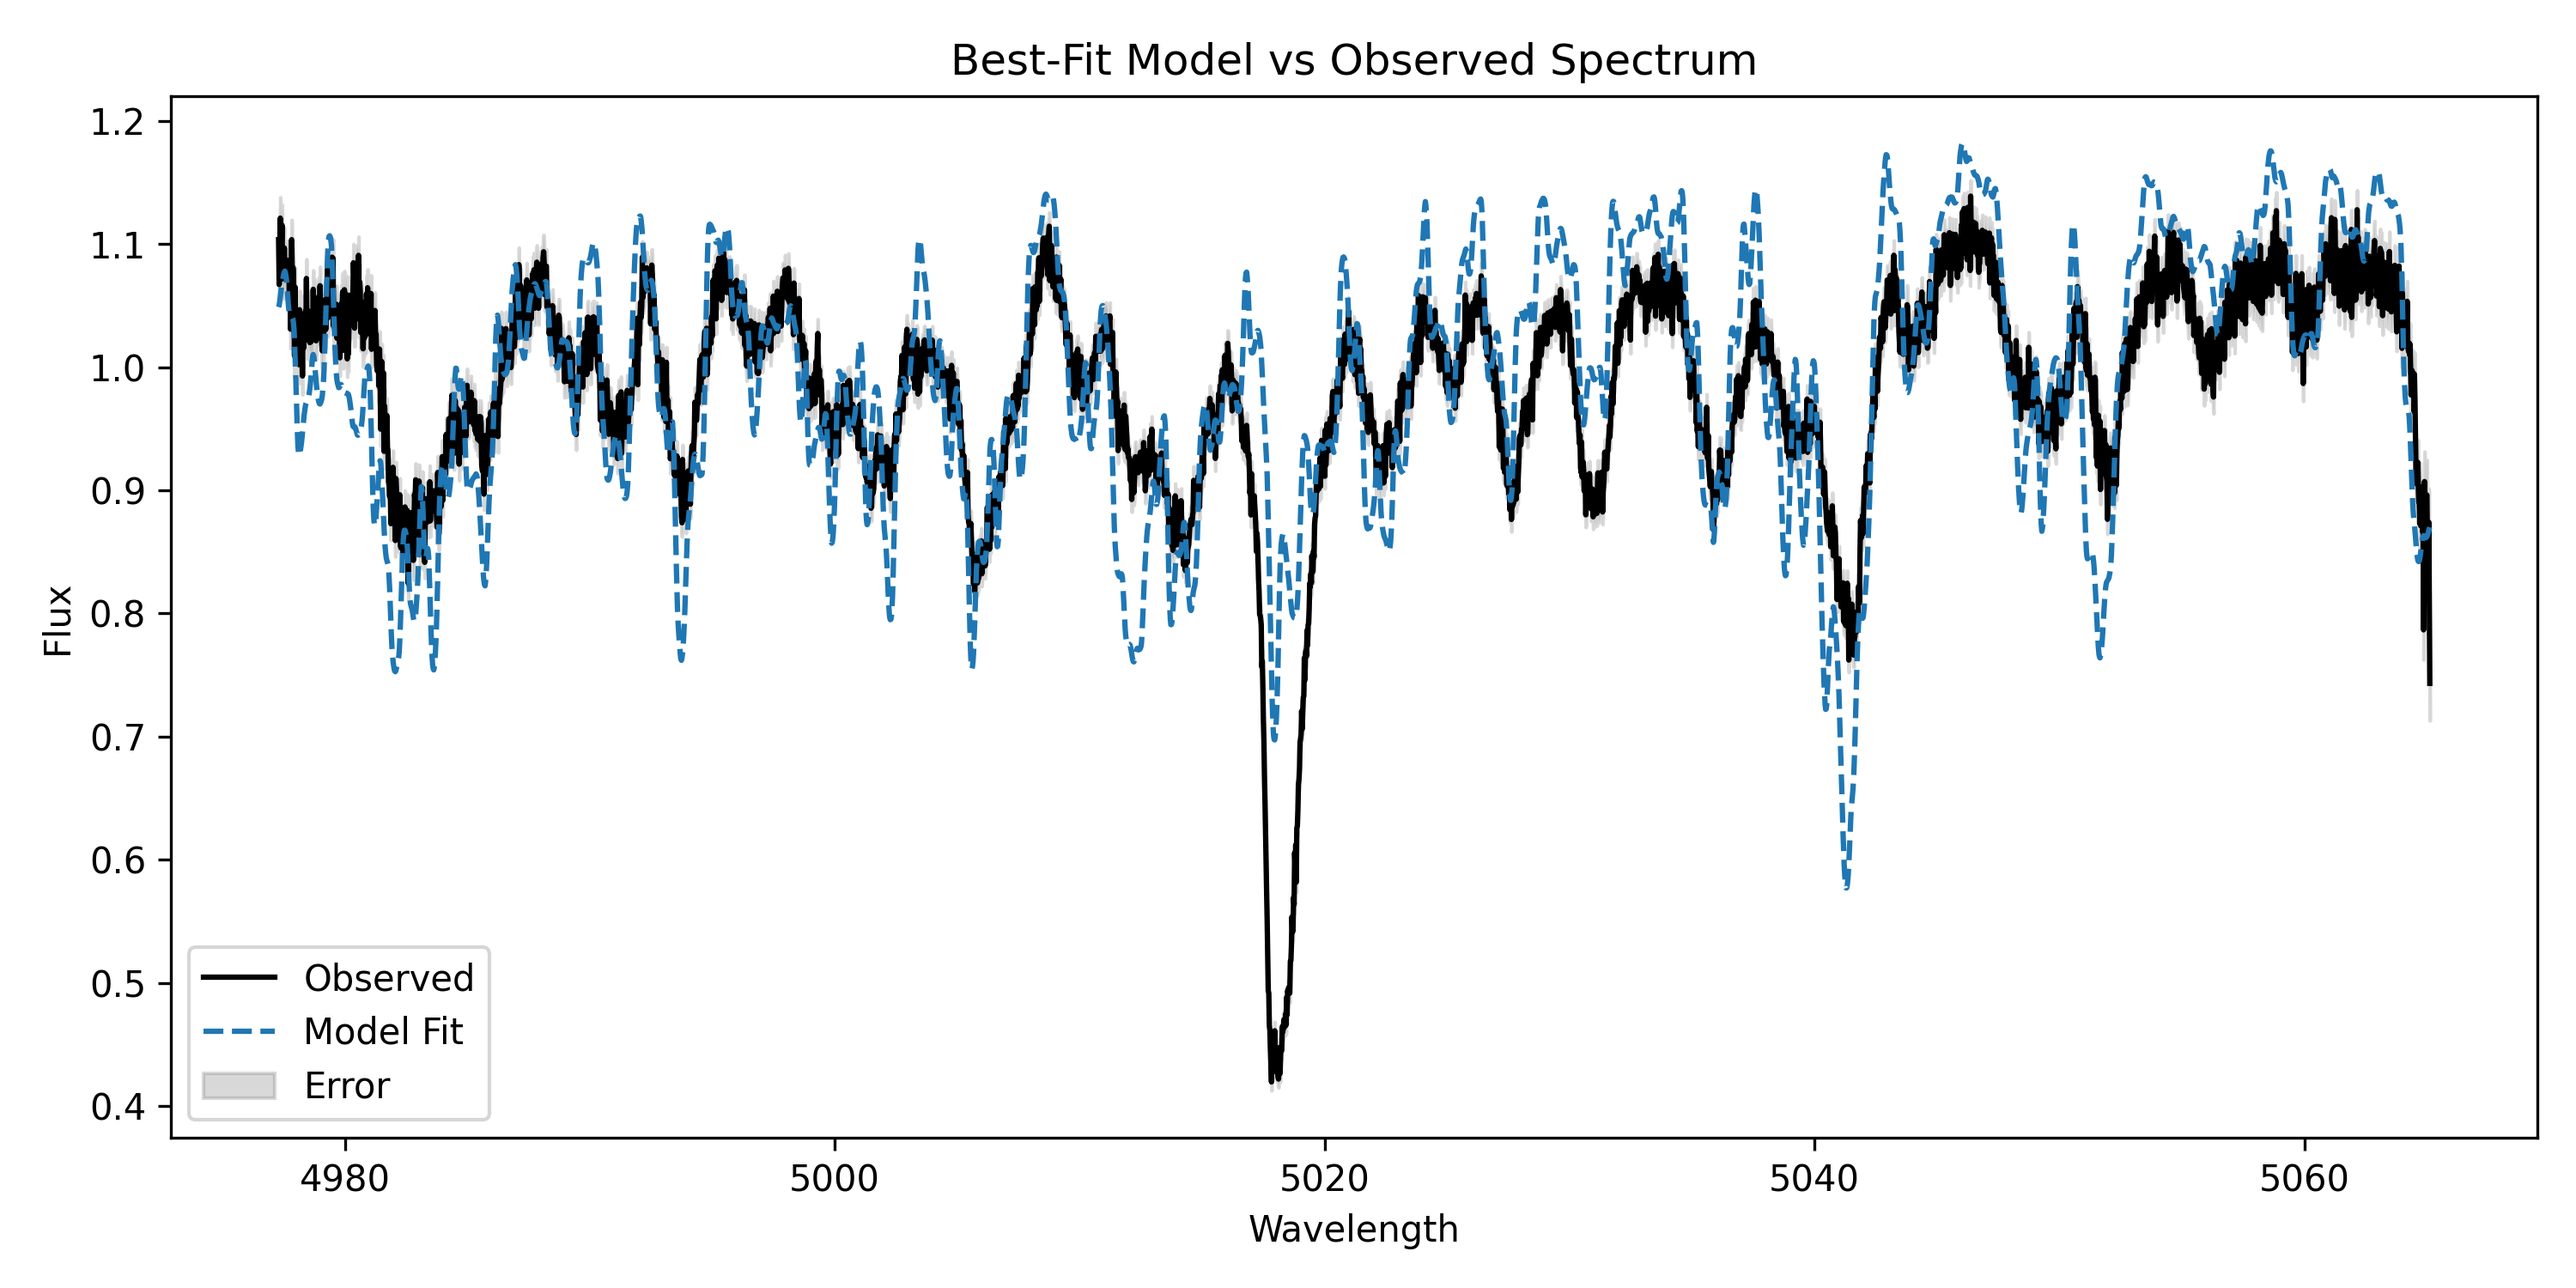
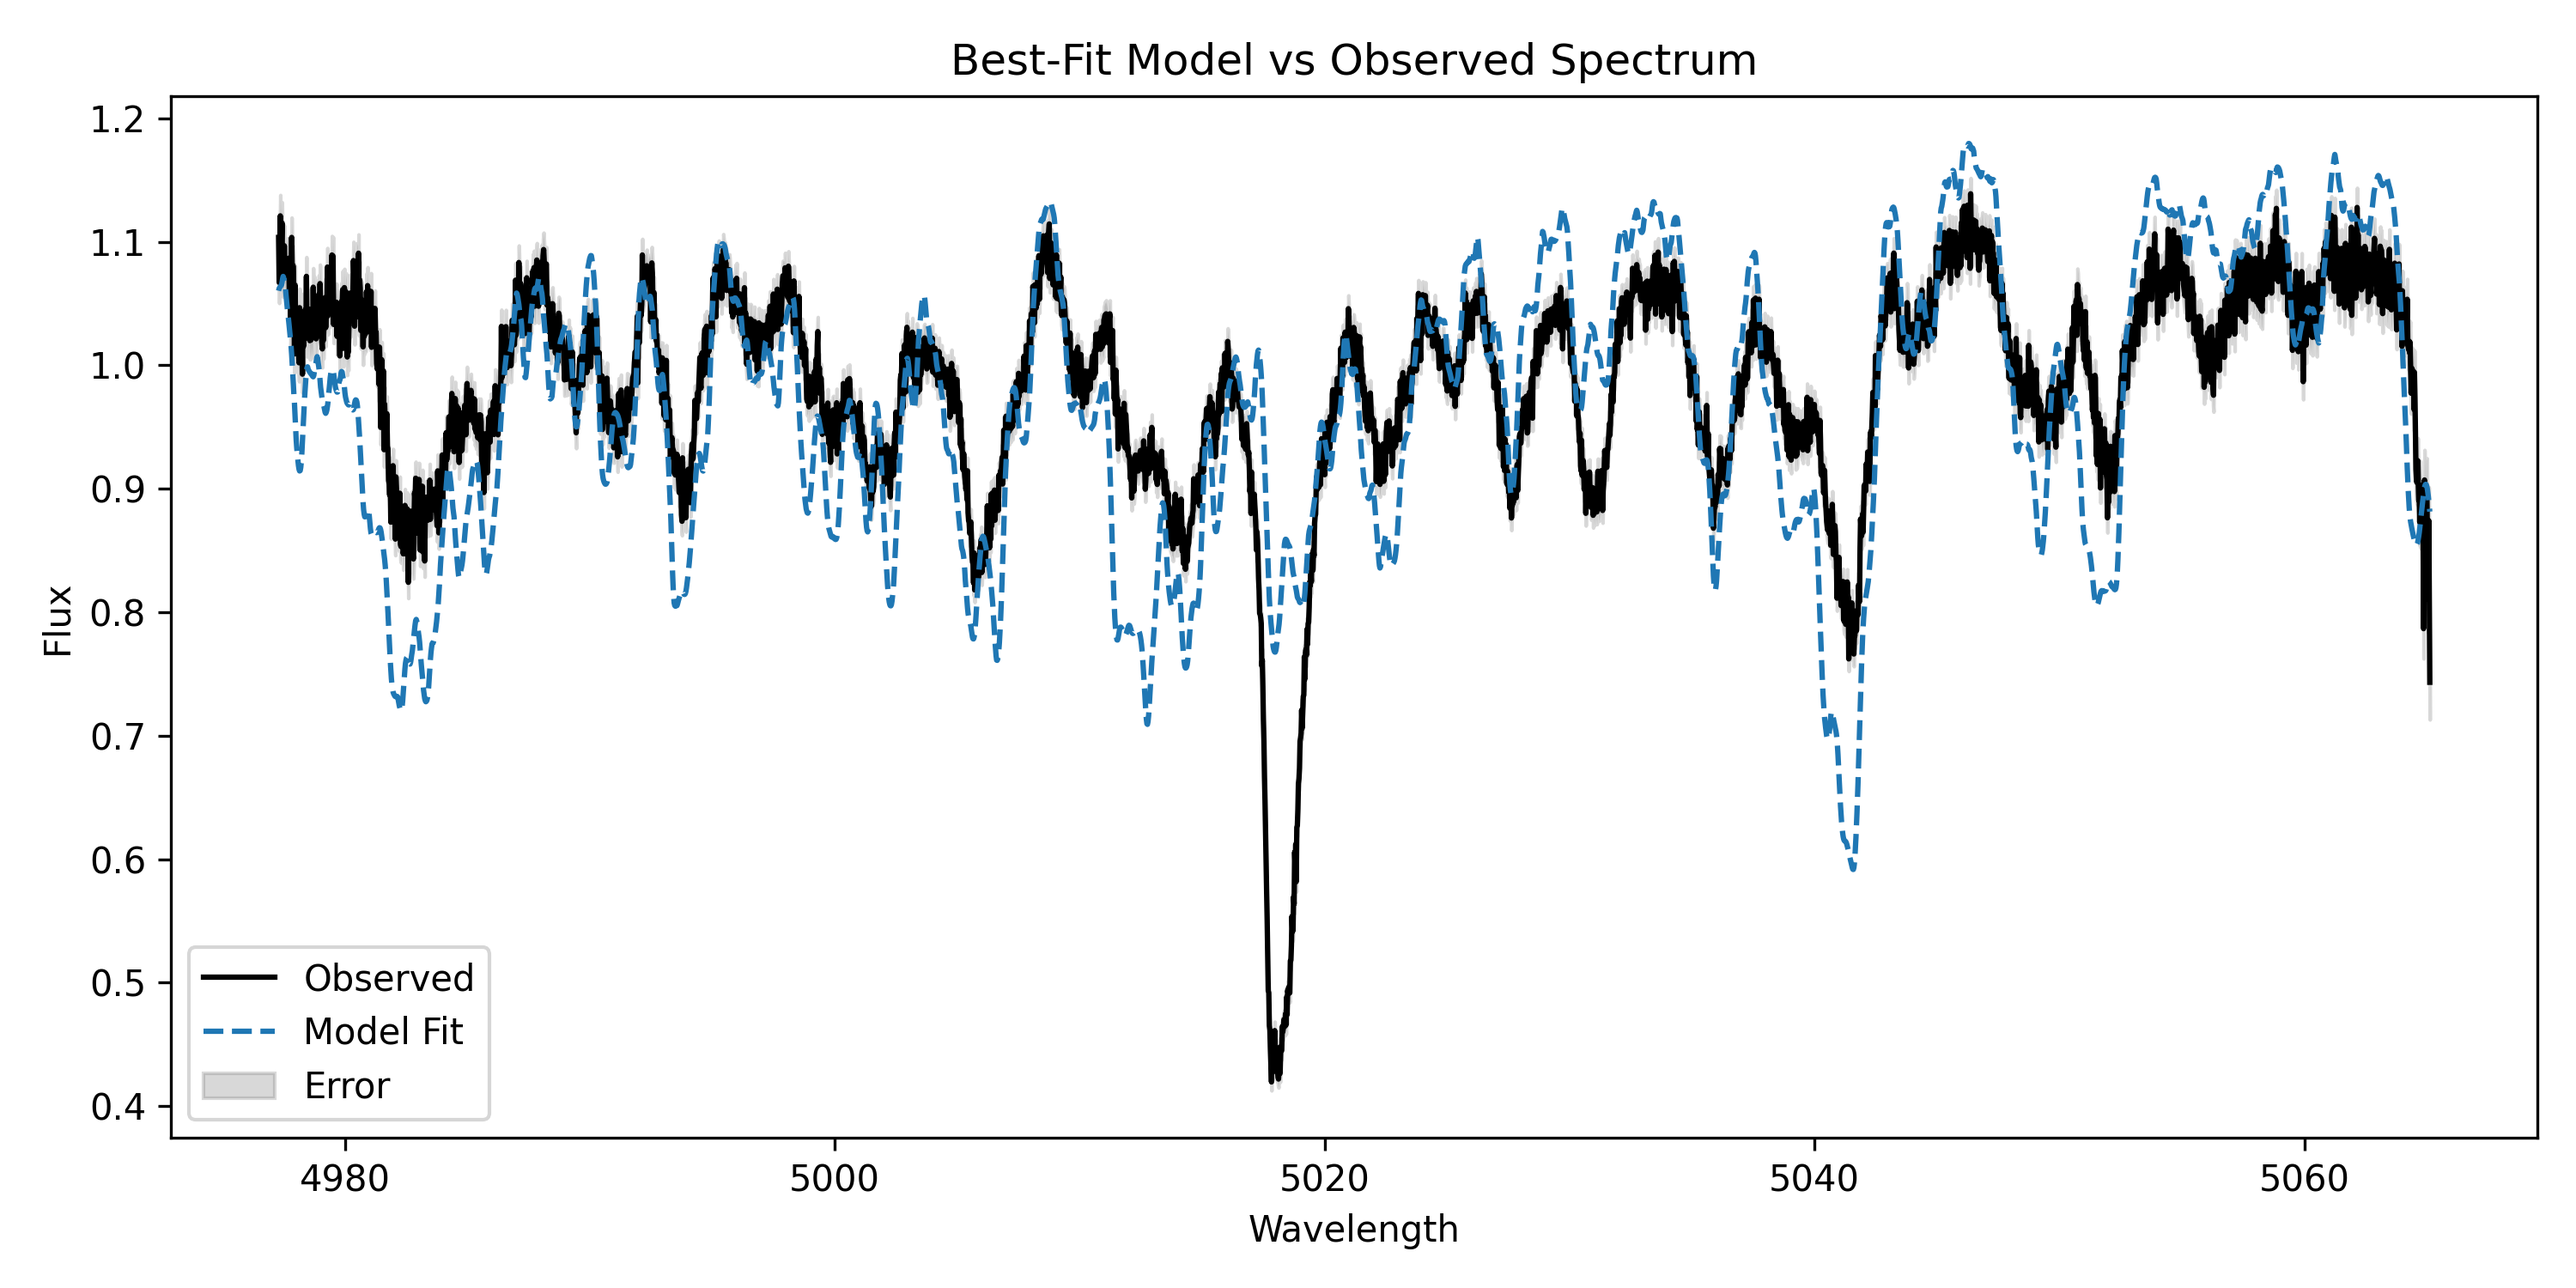
added polynomial continuum fitting

diff --git a/least_sq_fitter.py b/least_sq_fitter.py
@@ -1,8 +1,6 @@
 import numpy as np
-import pandas as pd
 import matplotlib.pyplot as plt
 import time
-import os
 import sys
 import multiprocessing as mp
 from functools import partial
@@ -20,7 +18,7 @@ from ysopy import utils
 import warnings
 
 # Turn all warnings into errors
-warnings.simplefilter('error', RuntimeWarning)
+# warnings.simplefilter('error', RuntimeWarning)
 
 # Alternatively, target only RuntimeWarnings
 # warnings.filterwarnings('error', category=RuntimeWarning)
@@ -41,9 +39,9 @@ wavelengths_air = wave.vactoair(data[0]*u.AA)   # vac to air correction for give
 data[0] = rad_vel_correction(wavelengths_air, 40.3 * u.km / u.s)    # radial velocity correction to wavelength, from header file
 
 OUTPUT_FILE = '/home/arch/yso/results/best_fit_params.txt'
-N_PARAMS = 5
-INITIAL_GUESS = np.array([0.6,-4.55,1.0,15.0,4,8])   # params = ['m', 'log_m_dot', 'b', 'inclination', 't_0'/1000, 't_slab'/1000]
-BOUNDS = ([0.4,-6.5,0.8,5.0,3.0,7.5], [0.8,-4.6,1.2,30.0,4.5,8.5])
+# N_PARAMS = 6
+INITIAL_GUESS = np.array([0.6,-5.0,1.0,15.0,4,8])   # params = ['m', 'log_m_dot', 'b', 'inclination', 't_0'/1000, 't_slab'/1000]
+BOUNDS = [[0.4,-6.5,0.8,5.0,3.0,7.5], [0.8,-4.6,1.2,30.0,4.5,8.5]]
 
 x_obs, y_obs, yerr = data[0], data[1], data[2]
 
@@ -88,8 +86,7 @@ def model_spec(theta,wavelength):
     # t5 = time.time()
 
     # interpolate to required wavelength
-    func = interp1d(wave_ax,total_flux)     # CHECK if this works, for units
-    result_spec = func(wavelength)
+    result_spec = np.interp(wavelength, wave_ax,total_flux.value)     # CHECK if this works, for units
     result_spec /= np.median(result_spec)
 
     # print(f"model run ... time taken {t5 - t0} s")
@@ -103,10 +100,38 @@ def residuals(theta):
     print(f"Evaluated at theta={np.round(theta, 3)} | time: {time.time() - start:.2f}s")
     return residual
 
-def run_optimization():
-    print("Starting least-sq optimization...")
+def residuals_polynomial(theta, poly_order):
+    start = time.time()
+
+    n_model_params = len(theta) - (poly_order + 1)
+    theta_model = theta[:n_model_params]
+    poly_coeffs = theta[n_model_params:]
+
+    model_flux = model_spec(theta_model, x_obs)
+    poly_func = np.polyval(poly_coeffs, x_obs.value)
+    residual = (y_obs - model_flux * poly_func) / yerr
+
+    print(f"Evaluated at theta={np.round(theta_model, 3)} | "
+          f"poly={np.round(poly_coeffs, 3)} | "
+          f"time: {time.time() - start:.2f}s")
+    
+    return residual
+
+
+def run_optimization(poly_order):
+    print(f"Starting least-sq optimization...\nThe continuum is a polynomial of order {poly_order}")
     start_time = time.time()
-    result = least_squares(residuals, INITIAL_GUESS, method='trf', bounds=BOUNDS, verbose=2, xtol=1e-8, ftol=1e-8)
+
+    # set initial guess for the polynomial coeffs, set bounds
+    poly_params_guess = np.array([0.0]*poly_order+[1]) # flat initial guess
+    INITIAL_GUESS_TOT = np.concatenate([INITIAL_GUESS,poly_params_guess])
+    bd_lower = [-1] * poly_order + [0.5]
+    bd_upper = [1] * poly_order + [1.5]
+    BOUNDS[0] = BOUNDS[0] + bd_lower
+    BOUNDS[1] = BOUNDS[1] + bd_upper
+    print(BOUNDS)
+    print(INITIAL_GUESS_TOT)
+    result = least_squares(residuals_polynomial, INITIAL_GUESS_TOT, args=(poly_order,), method='trf', bounds=BOUNDS, verbose=2, xtol=1e-8, ftol=1e-8)
     total_time = time.time() - start_time
     print(f"Optimization finished in {total_time:.2f} seconds.")
     
@@ -116,11 +141,19 @@ def run_optimization():
     return result.x
 
 # PLOT
-def plot_fit(best_params):
-    model_flux = model_spec(best_params, x_obs*u.AA)
+def plot_fit(best_params,poly_order):
+
+    n_model_params = len(best_params) - (poly_order + 1)
+    theta_model = best_params[:n_model_params]
+    poly_coeffs = best_params[n_model_params:]
+    print(poly_coeffs)
+    model_flux = model_spec(theta_model, x_obs)
+    poly_func = np.polyval(poly_coeffs, x_obs.value)
+    model_continuum_corrected = model_flux * poly_func
+
     plt.figure(figsize=(10, 5))
     plt.plot(x_obs, y_obs, label="Observed", color='black')
-    plt.plot(x_obs, model_flux, label="Model Fit", linestyle='--')
+    plt.plot(x_obs, model_continuum_corrected, label="Model Fit", linestyle='--')
     plt.fill_between(x_obs.value, y_obs.value - yerr.value, y_obs.value + yerr.value, color='gray', alpha=0.3, label="Error")
     plt.xlabel("Wavelength")
     plt.ylabel("Flux")
@@ -130,11 +163,16 @@ def plot_fit(best_params):
     plt.savefig("fit_result.png", dpi=300)
     plt.show()
 
-# if __name__ == "__main__":
-#     best_fit = run_optimization()
-#     plot_fit(best_fit)
+if __name__ == "__main__":
+    config = utils.config_read('ysopy/config_file.cfg')
+    best_fit = run_optimization(config['poly_order'])
 
-# sys.exit(0)
+    #read manually
+    # best_fit = np.loadtxt(OUTPUT_FILE)
+
+    plot_fit(best_fit,config['poly_order'])
+
+sys.exit(0)
 
 ##################################################################
 
@@ -142,7 +180,7 @@ def plot_fit(best_params):
 
 param_names = ['m', 'log_m_dot', 'b', 'inclination', 't_0/1000', 't_slab/1000']
 param_i, param_j = 0, 1  # parameters to vary
-n_points = 20
+n_points = 10
 pi_vals = np.linspace(BOUNDS[0][param_i], BOUNDS[1][param_i], n_points)
 pj_vals = np.linspace(BOUNDS[0][param_j], BOUNDS[1][param_j], n_points)
 PI, PJ = np.meshgrid(pi_vals, pj_vals)

diff --git a/ysopy/utils.py b/ysopy/utils.py
@@ -47,6 +47,7 @@ def config_read(path):
     dict_config["n_h"] = int(dict_config["n_h"])
     dict_config["l_l_slab"] = float(dict_config["l_l_slab"]) * u.AA
     dict_config["n_h_minus"] = int(dict_config["n_h_minus"])
+    dict_config["poly_order"] = int(dict_config["poly_order"])
     
     for param in ["save", "save_each", "plot", "save_grid_data", "verbose"]:
         if dict_config[param] == "True":
